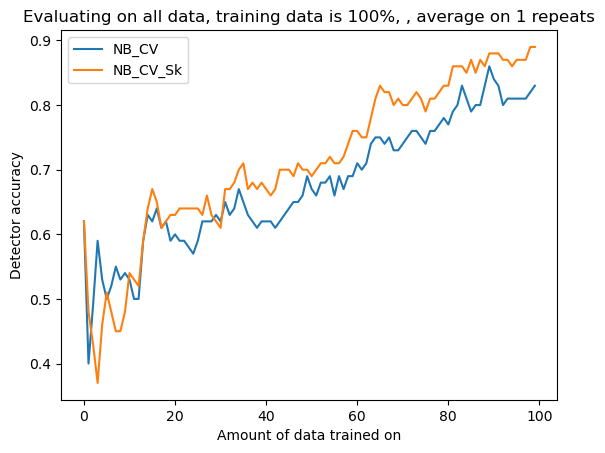
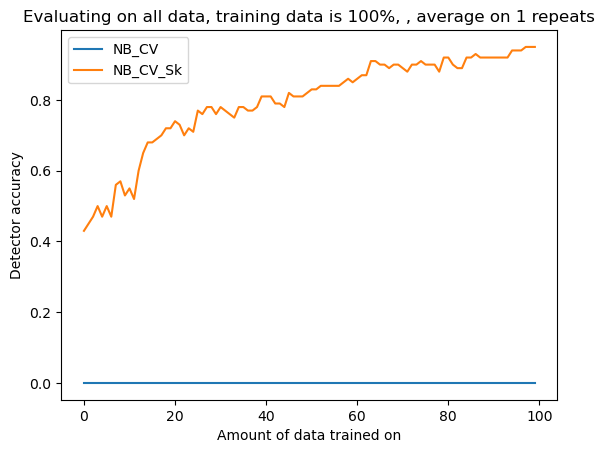
branching

diff --git a/plagiarism_detection/model/classifiers/naive_bayes.py b/plagiarism_detection/model/classifiers/naive_bayes.py
@@ -22,7 +22,8 @@ class NaiveBayesClassifier (Classifier):
             self.word_probabilities = compute_word_probabilities_tfidf(filtered_labels, featurizer, matrix)"""
     def predict(self, tokens):
         #initialize scores for all classes(plagiat + non_plagiat)
-        scores = {cls: np.log(self.class_priors[cls]) for cls in self.class_priors if self.class_priors[cls] > 0}
+        scores = {cls: np.log(self.class_priors[cls]) for cls in self.class_priors}
+
         #for each token we calculate log of likelihoods for each class
         for token in tokens:
             if token in self.word_probabilities:
@@ -35,29 +36,28 @@ class NaiveBayesClassifier (Classifier):
 
 
 def compute_class_priors(filtered_labels):
+    print("wtf", filtered_labels)
     total_files = len(filtered_labels)
-    plagiat_files = sum(1 for v in filtered_labels.values() if v == "plagiat") #number or plagiat files
-    #print(plagiat_files, total_files)
+    plagiat_files = np.sum(filtered_labels, where=1)
+    #print("plagiat_files", plagiat_files) 
     return {
         "plagiat": plagiat_files / total_files, #probability of a file been plagiat P(plagiat)
         "non_plagiat": 1 - (plagiat_files / total_files) #probability of a file been non plagiat P(non_plagiat)
     }
 
-def compute_word_probabilities(filtered_labels: Dict[str, str], featurizer, matrix: np.ndarray) -> Dict[str, Dict[str, float]]:
-    
+def compute_word_probabilities(filtered_labels, featurizer, matrix: np.ndarray) -> Dict[str, Dict[str, float]]:
+    print(filtered_labels)
     totals = np.zeros((len(featurizer.vocabulary), 2)) #matrix that's gonna contain the total occurence of a word in all docs, and in plagiat docs
-    for file_name, row in zip(filtered_labels.keys(), matrix):
+    print("the zip", list(zip(filtered_labels, matrix)))
+    for file_name, row in zip(filtered_labels, matrix):
         for word, index in featurizer.vocabulary.items():
             totals[index, 0] += row[index] # Add the word's count from the feature matrix to the total counts.
-            if filtered_labels[file_name] == 'plagiat':
+            print("here", file_name, len(filtered_labels))
+            if filtered_labels[file_name] == 1:
                 totals[index, 1] += row[index] #if the file is plagiat then add the count to the second column
 
-    """print(matrix)
-    print(filtered_labels)
-    print([filtered_labels[file_name] == 'plagiat' for file_name in filtered_labels.keys()])
-    print([filtered_labels[file_name] == 'non_plagiat' for file_name in filtered_labels.keys()])"""
-    total_plagiat_words = matrix[[filtered_labels[file_name] == 'plagiat' for file_name in filtered_labels.keys()]].sum().sum()
-    total_non_plagiat_words = matrix[[filtered_labels[file_name] == 'non_plagiat' for file_name in filtered_labels.keys()]].sum().sum()
+    total_plagiat_words = matrix[[filtered_labels[file_name] == 1 for file_name in filtered_labels]].sum().sum()
+    total_non_plagiat_words = matrix[[filtered_labels[file_name] == 0 for file_name in filtered_labels]].sum().sum()
 
     word_totals = {}
     for word, index in featurizer.vocabulary.items():
@@ -65,8 +65,8 @@ def compute_word_probabilities(filtered_labels: Dict[str, str], featurizer, matr
         total_plagiat = totals[index, 1]
         #the likelihoods of each word == P(word/class) 
         word_totals[word] = {
-            "plagiat": (total_plagiat + 1) / total_plagiat_words if total > 0 and total_plagiat_words > 0 else 0,
-            "non_plagiat": (total - total_plagiat + 1) / total_non_plagiat_words if total_non_plagiat_words > 0 else 0
+            "plagiat": (total_plagiat + 1) / total_plagiat_words if total > 0 else 0,
+            "non_plagiat": (total - total_plagiat + 1) / total_non_plagiat_words
         }
 
     return word_totals
@@ -76,7 +76,7 @@ def compute_word_probabilities_tfidf(filtered_labels: Dict[str, str], featurizer
 
     for file_name, row in zip(filtered_labels.keys(), matrix):
         for word, index in featurizer.vocabulary.items():
-            if filtered_labels[file_name] == 'plagiat':
+            if filtered_labels[file_name] == 0:
                 totals[index, 1] += row[index]
             else:
                 totals[index, 0] += row[index]

diff --git a/plagiarism_detection/model/pipeline/plagiarism_detector.py b/plagiarism_detection/model/pipeline/plagiarism_detector.py
@@ -22,7 +22,7 @@ class PlagiarismDetector:
     def trainn (self, texts, categories):
         #self.featurizer.fit(texts)
         #print(np.array(list(categories.values())))
-        self.classifier.fit(self.featurizer.fit_transform(texts), np.array(list(categories.values())))
+        self.classifier.fit(self.featurizer.fit_transform(texts), np.array(categories))
 
     def classify (self, text):
         tokens = self.tokenizer.tokenize(text)
@@ -39,12 +39,12 @@ class PlagiarismDetector:
 
     def evaluate (self, texts, categories):
         y_computed = [self.classify(text) for text in texts]
-        corrects = sum(1 for computed, expected in zip(y_computed, categories.values()) if computed == expected)
+        corrects = sum(1 for computed, expected in zip(y_computed, categories) if computed == expected)
         return corrects / len(categories)
 
     def evaluatee (self, texts, categories):
         y_computed = [self.classifyy(text) for text in texts]
-        corrects = sum(1 for computed, expected in zip(y_computed, categories.values()) if computed == expected)
+        corrects = sum(1 for computed, expected in zip(y_computed, categories) if computed == expected)
         return corrects / len(categories)
 
     def interpret (self, classification):

diff --git a/plagiarism_detection/experimentations/experiment_manager.py b/plagiarism_detection/experimentations/experiment_manager.py
@@ -13,7 +13,7 @@ class ExperimentManager ():
             self.saving_results_path += "/"
 
     def train_detectors (self, texts, categories):
-        categories = {index: category for index,category in enumerate(categories)}
+        #categories = {index: category for index,category in enumerate(categories)}
         for detector in self.detectors.values():
             try:
                 detector.train(texts, categories)
@@ -21,7 +21,7 @@ class ExperimentManager ():
                 detector.trainn(texts, categories)
     
     def evaluate_detectors (self, texts, categories):
-        categories = {index: category for index,category in enumerate(categories)}
+        #categories = {index: category for index,category in enumerate(categories)}
         accuracies = []
         for detector in self.detectors.values():
             try:

diff --git a/plagiarism_detection/experimentations/experiments.py b/plagiarism_detection/experimentations/experiments.py
@@ -18,7 +18,7 @@ from experimentations.experiment_manager import ExperimentManager
 
 
 def map_value(value: str) -> str:
-    return 'plagiat' if value in ['heavy', 'cut'] else 'non_plagiat'
+    return 1 if value in ['heavy', 'cut', 'light'] else 0
 
 def load_labels(folder_path: str) -> Dict[str, str]:
     expected_results = pd.read_csv(os.path.join(folder_path, "file_information.csv"), sep=",")
@@ -94,7 +94,7 @@ if __name__ == "__main__":
     student__ = ExperimentManager(DETECTORS__, NAMES__, data, RESULTS_DIRECTORY)
     inspector = ExperimentManager(DETECTORS_PREPROCESSING, NAMES_PREPROCESSING, data, RESULTS_DIRECTORY)
 
-    #experiment_on_learning(student)
+    experiment_on_learning(student)
     #experiment_on_classes(student)
     #experiment_on_preprocessing(inspector)
 

diff --git a/plagiarism_detection/model/featurizers/count_vector.py b/plagiarism_detection/model/featurizers/count_vector.py
@@ -27,7 +27,7 @@ class CountVectorFeaturizer (Featurizer):
 
         # Initialize a matrix for the count vectors
         count_matrix = np.zeros((len(documents), len(self.vocabulary)), dtype=int)
-
+        print(count_matrix.shape)
         # Fill the matrix with token frequencies based on the vocabulary
         for i, tokens in enumerate(self.tokenized_docs): #for each token of each document, if in vocab then we inc that cell in the matrix
             for token in tokens:

diff --git a/plagiarism_detection/model/classifiers/perceptron.py b/plagiarism_detection/model/classifiers/perceptron.py
@@ -25,6 +25,7 @@ class PerceptronClassifier (Classifier):
                     
 
     def predict(self, matrix):
+        print("here ", matrix.shape, self.weights.shape)
         z = np.dot(matrix, self.weights) + self.bias
         #print("linear_output", np.sign(linear_output))
         predictions = np.sign(z)
